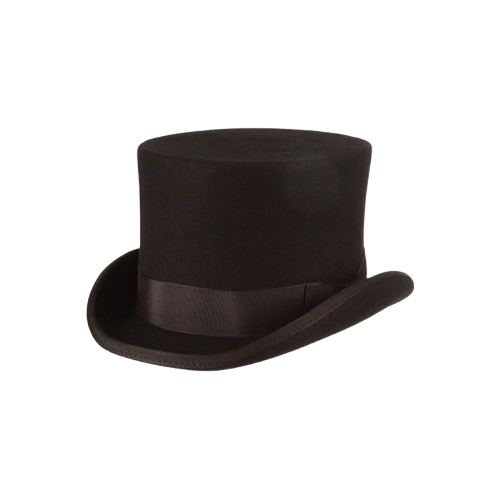
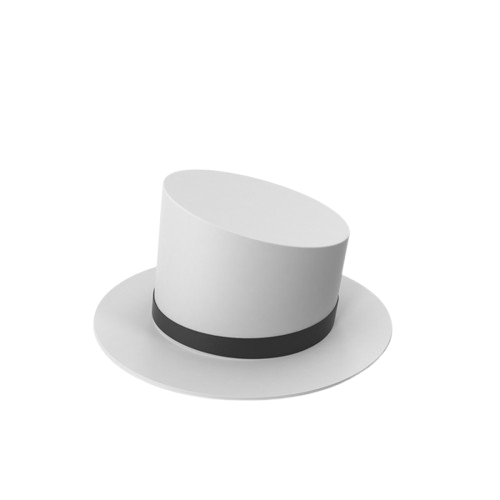
chore: add links to other hat brands

Changed region(s): [[0.15, 0.24, 0.84, 0.81]]

diff --git a/src/components/Footer.tsx b/src/components/Footer.tsx
@@ -22,7 +22,7 @@ export default function Footer() {
 
           <div className="flex items-center space-x-1">
             <MailIcon className="text-purple-600" />
-            <p className="text-sm font-semibold">justhats@gmail.com</p>
+            <p className="text-sm font-semibold">justhats@kmail.com</p>
           </div>
 
           <div className="flex items-center space-x-1">
@@ -34,11 +34,40 @@ export default function Footer() {
         </div>
       </div>
 
-      <div>
+      <div className="lg:w-4/5">
         <p>
-          This is a fictional store and doesn't actually exist and I own no
-          rights to the images used, these were gotten online from brands like
+          This is a fictional store, it doesn't actually exist and I own no
+          rights to the images used, these were gotten online from brands like{" "}
+          <a
+            className="mr-1 font-semibold hover:underline"
+            href="https://www.lockhatters.com"
+            rel="noopener"
+          >
+            Lockhatters,
+          </a>
+          <a
+            className="mr-1 font-semibold hover:underline"
+            href="https://www.gigipip.com/products/custom-trucker-hat-experience"
+            rel="noopener"
+          >
+            Gigi Pip,
+          </a>
+          <a
+            className="mr-1 font-semibold hover:underline"
+            href="https://saltandstraw.com/products/ampersand-beanie"
+            rel="noopener"
+          >
+            Salt & Straw,
+          </a>
+          <a
+            className="mr-1 font-semibold hover:underline"
+            href="https://bobbs.uk/"
+            rel="noopener"
+          >
+            Bobbs.
+          </a>
         </p>
+        <p>Check them out if you are interested in the hats</p>
       </div>
 
       <p className="w-full text-center border-t py-2">

diff --git a/src/components/More.tsx b/src/components/More.tsx
@@ -6,7 +6,7 @@ export default function More() {
       id="more"
       className="w-full flex items-center flex-col overflow-hidden space-y-10 min-h-screen px-4 pt-[100px] pb-5"
     >
-      <h1 className="text-black text:4xl lg:text-6xl">
+      <h1 className="text-black text-4xl lg:text-6xl">
         We've got{" "}
         <span className="text-purple-600 text-5xl lg:text-7xl">hats</span> for
         every <span className="text-purple-600">look</span> and{" "}
@@ -206,7 +206,7 @@ export default function More() {
         </div>
       </div>
 
-      <h2 className="text-black text-center text:4xl lg:text-6xl">
+      <h2 className="text-black text-center text-4xl lg:text-6xl">
         These aren't
         <br />
         <span className="text-purple-600 text-5xl lg:text-7xl">

diff --git a/src/components/Trending.tsx b/src/components/Trending.tsx
@@ -17,7 +17,7 @@ export default function Trending() {
         ))}
       </div>
       <div className="flex cursor-pointer items-center space-x-1 lg:hover:text-purple-600 lg:hover:underline">
-        <p className="text-xl font-semibold capitalize">
+        <p className="text-lg font-semibold capitalize lg:text-xl">
           Check out more at our store
         </p>{" "}
         <ArrowRightCircle />
